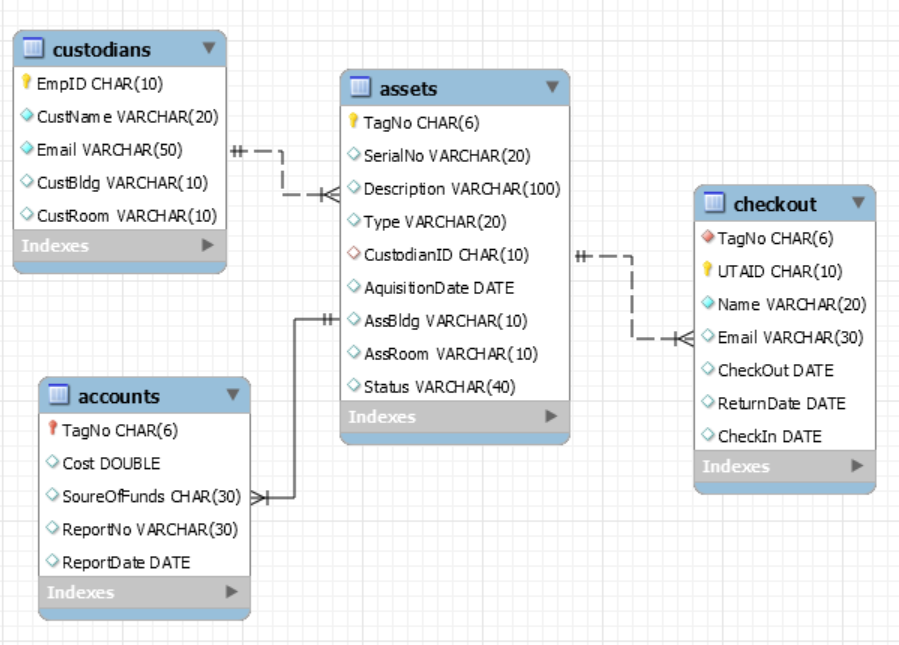
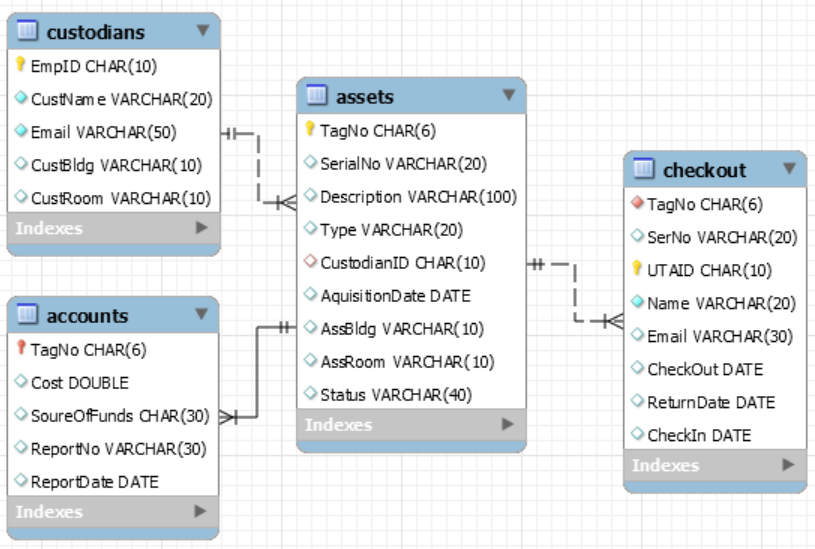
Updated the Website and Database
made changes to website - added separate pages for new asset entry, updated nav bars. made change to checkout table.

diff --git a/templates/oldasset.html b/templates/oldasset.html
@@ -48,43 +48,131 @@
   </div>
 </nav>
 
-<h2 align="center">Asset Check-In Form</h2>
+<h2 align="center">New Asset - Old Custodian</h2>
 
 <div class="container">
-  <form action="work.html">
+  <form action="work.html" method="POST">
+      <div class="row">
+      <h3> <u> Asset Info </u> </h3>
+    </div>
     <div class="row">
       <div class="col-10">
         <label for="tagno">Tag Number</label>
       </div>
       <div class="col-15">
-        <input type="text" id="tagno" name="tagno" placeholder="Enter 6-digit T/N">
+        <input type="text" id="tagno" name="tagno" placeholder="Enter 6-digit T/N" minlengh="6" maxlength="6" required> 
       </div>
-    </div>
- 
-    <div class="row">
-      <div class="col-10">
+       <div class="col-10">
+       </div>
+      <div class="col-15">
         <label for="serialno">Serial Number</label>
       </div>
       <div class="col-15">
-        <input type="text" id="serialno" name="serialno" placeholder="Enter S/N if applicable">
+        <input type="text" id="serialno" name="serialno" placeholder="S/N if applicable">
       </div>
     </div>
-        
     <div class="row">
       <div class="col-10">
-        <label for="return">Check-in Date</label>
+        <label for="type">Type</label>
       </div>
       <div class="col-15">
-        <input id="date" type="date" value="2018-12-31">
+        <select id="type" name="type">
+          <option value="computer">Desktop</option>
+          <option value="laptop">Laptop</option>
+          <option value="camera">Camera</option>
+          <option value="scanner">Tablet/iPad</option>
+          <option value="other">Other</option>
+        </select>
+      </div>           
+       <div class="col-10">
+       </div>
+      <div class="col-15">
+        <label for="date">Acquisition Date</label>
+      </div>
+      <div class="col-15">
+      <input id="date" type="date" value="2018-01-01">
+      </div>
+    </div>
+    <div class="row">
+      <div class="col-10">
+        <label for="description">Description</label>
+      </div>
+      <div class="col-55">
+        <textarea id="description" name="description" placeholder="Write a short description about the Asset" style="height:75px"></textarea>
       </div>
     </div>
     
     <div class="row">
-      <p>    </p>
+      <div class="col-10">
+        <label for="building">Building</label>
+      </div>
+      <div class="col-15">
+        <input type="text" id="building" name="building" placeholder="Building for Asset">
+      </div>
+      <div class="col-10">
+       </div>
+      <div class="col-15">
+        <label for="room">Room</label>
+      </div>
+      <div class="col-15">
+        <input type="text" id="room" name="room" placeholder="Room No for Asset">
+      </div>
+    </div>
+        <div class="row">
+         <div class="row">
+      <div class="col-10">
+        <label for="empid">Custodian ID</label>
+      </div>
+      <div class="col-15">
+        <input type="text" id="empid" name="empid" placeholder="Custodian's ID">
+      </div>
+      </div>
+      <p>  </p>
+    </div>
+       
+    <div class="row">
+        <h3> <u> Accounting Info </u> </h3>
     </div>
     
     <div class="row">
       <div class="col-10">
+        <label for="cost">Cost</label>
+      </div>
+      <div class="col-15">
+        <input type="text" id="cost" name="cost" placeholder="Enter Cost in $$">
+      </div>
+      <div class="col-10">
+       </div>
+      <div class="col-15">
+        <label for="funds">Source of Funds</label>
+      </div>
+      <div class="col-15">
+        <input type="text" id="funds" name="funds" placeholder="Source of Funds">
+      </div>
+    </div>
+    
+          <div class="col-10">
+        <label for="status">Status</label>
+      </div>
+            <div class="col-15">
+        <select id="status" name="status">
+          <option value="active">Active</option>
+          <option value="stolen">Missing(Stolen)</option>
+          <option value="delete">Missing(Hold for Deletion)</option>
+          <option value="surplus">Surplus</option>
+          <option value="other">Other</option>
+        </select>
+      </div>
+    
+    <div class="row">
+      <p>  </p>
+    </div>
+        <div class="row">
+      <p>  </p>
+    </div>
+    
+    <div class="row">
+      <div class="col-30">
          <input type="submit" value="Submit">
       </div>
       <div class="col-15">

diff --git a/templates/newasset.html b/templates/newasset.html
@@ -15,7 +15,8 @@
   <div class="w3-dropdown-hover">
       <button class="w3-button">Assets</button>
       <div class="w3-dropdown-content w3-bar-block w3-card-4">
-        <a href="newasset.html" class="w3-bar-item w3-button w3-hover-orange">New Asset</a>
+        <a href="newasset.html" class="w3-bar-item w3-button w3-hover-orange">New Asset(New Custodian)</a>
+        <a href="oldasset.html" class="w3-bar-item w3-button w3-hover-orange">New Asset(Old Custodian)</a>
         <a href="lookup.html" class="w3-bar-item w3-button w3-hover-orange">Lookup Asset(s)</a>
         <a href="updateasset.html" class="w3-bar-item w3-button w3-hover-orange">Update Asset</a>
       </div>
@@ -47,7 +48,7 @@
   </div>
 </nav>
 
-<h2 align="center">New Asset Entry Form</h2>
+<h2 align="center">New Asset - New Custodian</h2>
 
 <div class="container">
   <form action="work.html" method="POST">
@@ -143,18 +144,18 @@
     
     <div class="row">
       <div class="col-10">
-        <label for="building">Building</label>
+        <label for="custbldg">Building</label>
       </div>
       <div class="col-15">
-        <input type="text" id="building" name="building" placeholder="Bldg of Custodian">
+        <input type="text" id="custbldg" name="custbldg" placeholder="Bldg of Custodian">
       </div>
       <div class="col-10">
        </div>
       <div class="col-15">
-        <label for="room">Room</label>
+        <label for="custroom">Room</label>
       </div>
       <div class="col-15">
-        <input type="text" id="room" name="room" placeholder="RmNo of Custodian">
+        <input type="text" id="custroom" name="custroom" placeholder="RmNo of Custodian">
       </div>
     </div>
     
@@ -195,7 +196,7 @@
         <label for="status">Status</label>
       </div>
             <div class="col-15">
-        <select id="type" name="type">
+        <select id="status" name="status">
           <option value="active">Active</option>
           <option value="stolen">Missing(Stolen)</option>
           <option value="delete">Missing(Hold for Deletion)</option>

diff --git a/templates/index.html b/templates/index.html
@@ -6,14 +6,14 @@
 <link rel="stylesheet" href="https://cdnjs.cloudflare.com/ajax/libs/font-awesome/4.6.3/css/font-awesome.min.css">
 <link rel="stylesheet" href="style.css">
 <body>
-
 <!-- Navigation -->
 <nav class="w3-bar w3-indigo w3-container">
   <a href="index.html" class="w3-button w3-bar-item">Home</a>
   <div class="w3-dropdown-hover">
       <button class="w3-button">Assets</button>
       <div class="w3-dropdown-content w3-bar-block w3-card-4">
-        <a href="newasset.html" class="w3-bar-item w3-button w3-hover-orange">New Asset</a>
+        <a href="newasset.html" class="w3-bar-item w3-button w3-hover-orange">New Asset(New Custodian)</a>
+        <a href="oldasset.html" class="w3-bar-item w3-button w3-hover-orange">New Asset(Old Custodian)</a>
         <a href="lookup.html" class="w3-bar-item w3-button w3-hover-orange">Lookup Asset(s)</a>
         <a href="updateasset.html" class="w3-bar-item w3-button w3-hover-orange">Update Asset</a>
       </div>
@@ -44,7 +44,6 @@
       </div>
   </div>
 </nav>
-
 <!-- Slide Show -->
 <section class="w3-container w3-padding-16">
   <img class="mySlides" src="icons/desktop.png" style="width:20%">

diff --git a/templates/acct.html b/templates/acct.html
@@ -15,7 +15,8 @@
   <div class="w3-dropdown-hover">
       <button class="w3-button">Assets</button>
       <div class="w3-dropdown-content w3-bar-block w3-card-4">
-        <a href="newasset.html" class="w3-bar-item w3-button w3-hover-orange">New Asset</a>
+        <a href="newasset.html" class="w3-bar-item w3-button w3-hover-orange">New Asset(New Custodian)</a>
+        <a href="oldasset.html" class="w3-bar-item w3-button w3-hover-orange">New Asset(Old Custodian)</a>
         <a href="lookup.html" class="w3-bar-item w3-button w3-hover-orange">Lookup Asset(s)</a>
         <a href="updateasset.html" class="w3-bar-item w3-button w3-hover-orange">Update Asset</a>
       </div>

diff --git a/templates/allcust.html b/templates/allcust.html
@@ -15,7 +15,8 @@
   <div class="w3-dropdown-hover">
       <button class="w3-button">Assets</button>
       <div class="w3-dropdown-content w3-bar-block w3-card-4">
-        <a href="newasset.html" class="w3-bar-item w3-button w3-hover-orange">New Asset</a>
+        <a href="newasset.html" class="w3-bar-item w3-button w3-hover-orange">New Asset(New Custodian)</a>
+        <a href="oldasset.html" class="w3-bar-item w3-button w3-hover-orange">New Asset(Old Custodian)</a>
         <a href="lookup.html" class="w3-bar-item w3-button w3-hover-orange">Lookup Asset(s)</a>
         <a href="updateasset.html" class="w3-bar-item w3-button w3-hover-orange">Update Asset</a>
       </div>

diff --git a/templates/checkout.html b/templates/checkout.html
@@ -15,7 +15,8 @@
   <div class="w3-dropdown-hover">
       <button class="w3-button">Assets</button>
       <div class="w3-dropdown-content w3-bar-block w3-card-4">
-        <a href="newasset.html" class="w3-bar-item w3-button w3-hover-orange">New Asset</a>
+        <a href="newasset.html" class="w3-bar-item w3-button w3-hover-orange">New Asset(New Custodian)</a>
+        <a href="oldasset.html" class="w3-bar-item w3-button w3-hover-orange">New Asset(Old Custodian)</a>
         <a href="lookup.html" class="w3-bar-item w3-button w3-hover-orange">Lookup Asset(s)</a>
         <a href="updateasset.html" class="w3-bar-item w3-button w3-hover-orange">Update Asset</a>
       </div>

diff --git a/templates/lookup.html b/templates/lookup.html
@@ -15,7 +15,8 @@
   <div class="w3-dropdown-hover">
       <button class="w3-button">Assets</button>
       <div class="w3-dropdown-content w3-bar-block w3-card-4">
-        <a href="newasset.html" class="w3-bar-item w3-button w3-hover-orange">New Asset</a>
+        <a href="newasset.html" class="w3-bar-item w3-button w3-hover-orange">New Asset(New Custodian)</a>
+        <a href="oldasset.html" class="w3-bar-item w3-button w3-hover-orange">New Asset(Old Custodian)</a>
         <a href="lookup.html" class="w3-bar-item w3-button w3-hover-orange">Lookup Asset(s)</a>
         <a href="updateasset.html" class="w3-bar-item w3-button w3-hover-orange">Update Asset</a>
       </div>

diff --git a/templates/newcust.html b/templates/newcust.html
@@ -15,7 +15,8 @@
   <div class="w3-dropdown-hover">
       <button class="w3-button">Assets</button>
       <div class="w3-dropdown-content w3-bar-block w3-card-4">
-        <a href="newasset.html" class="w3-bar-item w3-button w3-hover-orange">New Asset</a>
+        <a href="newasset.html" class="w3-bar-item w3-button w3-hover-orange">New Asset(New Custodian)</a>
+        <a href="oldasset.html" class="w3-bar-item w3-button w3-hover-orange">New Asset(Old Custodian)</a>
         <a href="lookup.html" class="w3-bar-item w3-button w3-hover-orange">Lookup Asset(s)</a>
         <a href="updateasset.html" class="w3-bar-item w3-button w3-hover-orange">Update Asset</a>
       </div>

diff --git a/templates/report.html b/templates/report.html
@@ -15,7 +15,8 @@
   <div class="w3-dropdown-hover">
       <button class="w3-button">Assets</button>
       <div class="w3-dropdown-content w3-bar-block w3-card-4">
-        <a href="newasset.html" class="w3-bar-item w3-button w3-hover-orange">New Asset</a>
+        <a href="newasset.html" class="w3-bar-item w3-button w3-hover-orange">New Asset(New Custodian)</a>
+        <a href="oldasset.html" class="w3-bar-item w3-button w3-hover-orange">New Asset(Old Custodian)</a>
         <a href="lookup.html" class="w3-bar-item w3-button w3-hover-orange">Lookup Asset(s)</a>
         <a href="updateasset.html" class="w3-bar-item w3-button w3-hover-orange">Update Asset</a>
       </div>

diff --git a/templates/updateacct.html b/templates/updateacct.html
@@ -15,7 +15,8 @@
   <div class="w3-dropdown-hover">
       <button class="w3-button">Assets</button>
       <div class="w3-dropdown-content w3-bar-block w3-card-4">
-        <a href="newasset.html" class="w3-bar-item w3-button w3-hover-orange">New Asset</a>
+        <a href="newasset.html" class="w3-bar-item w3-button w3-hover-orange">New Asset(New Custodian)</a>
+        <a href="oldasset.html" class="w3-bar-item w3-button w3-hover-orange">New Asset(Old Custodian)</a>
         <a href="lookup.html" class="w3-bar-item w3-button w3-hover-orange">Lookup Asset(s)</a>
         <a href="updateasset.html" class="w3-bar-item w3-button w3-hover-orange">Update Asset</a>
       </div>

diff --git a/templates/updateasset.html b/templates/updateasset.html
@@ -15,7 +15,8 @@
   <div class="w3-dropdown-hover">
       <button class="w3-button">Assets</button>
       <div class="w3-dropdown-content w3-bar-block w3-card-4">
-        <a href="newasset.html" class="w3-bar-item w3-button w3-hover-orange">New Asset</a>
+        <a href="newasset.html" class="w3-bar-item w3-button w3-hover-orange">New Asset(New Custodian)</a>
+        <a href="oldasset.html" class="w3-bar-item w3-button w3-hover-orange">New Asset(Old Custodian)</a>
         <a href="lookup.html" class="w3-bar-item w3-button w3-hover-orange">Lookup Asset(s)</a>
         <a href="updateasset.html" class="w3-bar-item w3-button w3-hover-orange">Update Asset</a>
       </div>

diff --git a/templates/updatecust.html b/templates/updatecust.html
@@ -15,7 +15,8 @@
   <div class="w3-dropdown-hover">
       <button class="w3-button">Assets</button>
       <div class="w3-dropdown-content w3-bar-block w3-card-4">
-        <a href="newasset.html" class="w3-bar-item w3-button w3-hover-orange">New Asset</a>
+        <a href="newasset.html" class="w3-bar-item w3-button w3-hover-orange">New Asset(New Custodian)</a>
+        <a href="oldasset.html" class="w3-bar-item w3-button w3-hover-orange">New Asset(Old Custodian)</a>
         <a href="lookup.html" class="w3-bar-item w3-button w3-hover-orange">Lookup Asset(s)</a>
         <a href="updateasset.html" class="w3-bar-item w3-button w3-hover-orange">Update Asset</a>
       </div>
